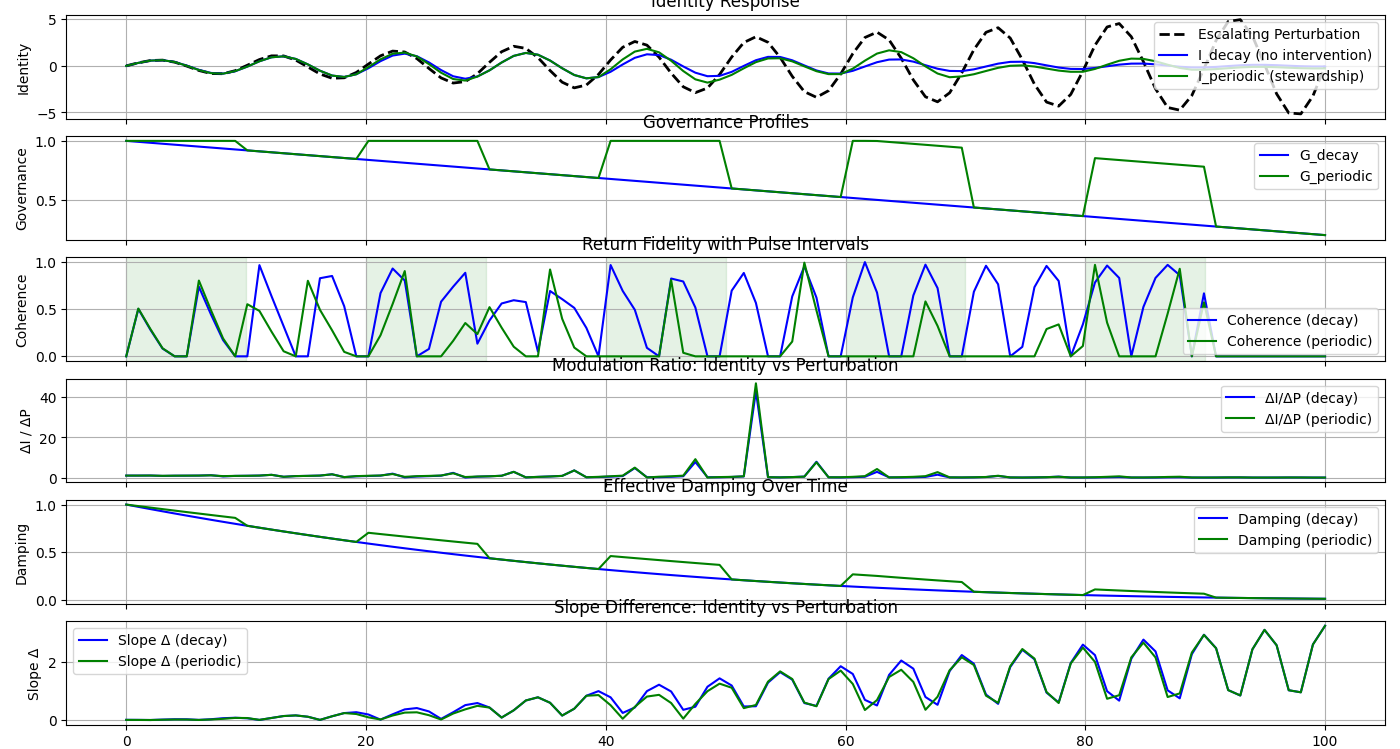
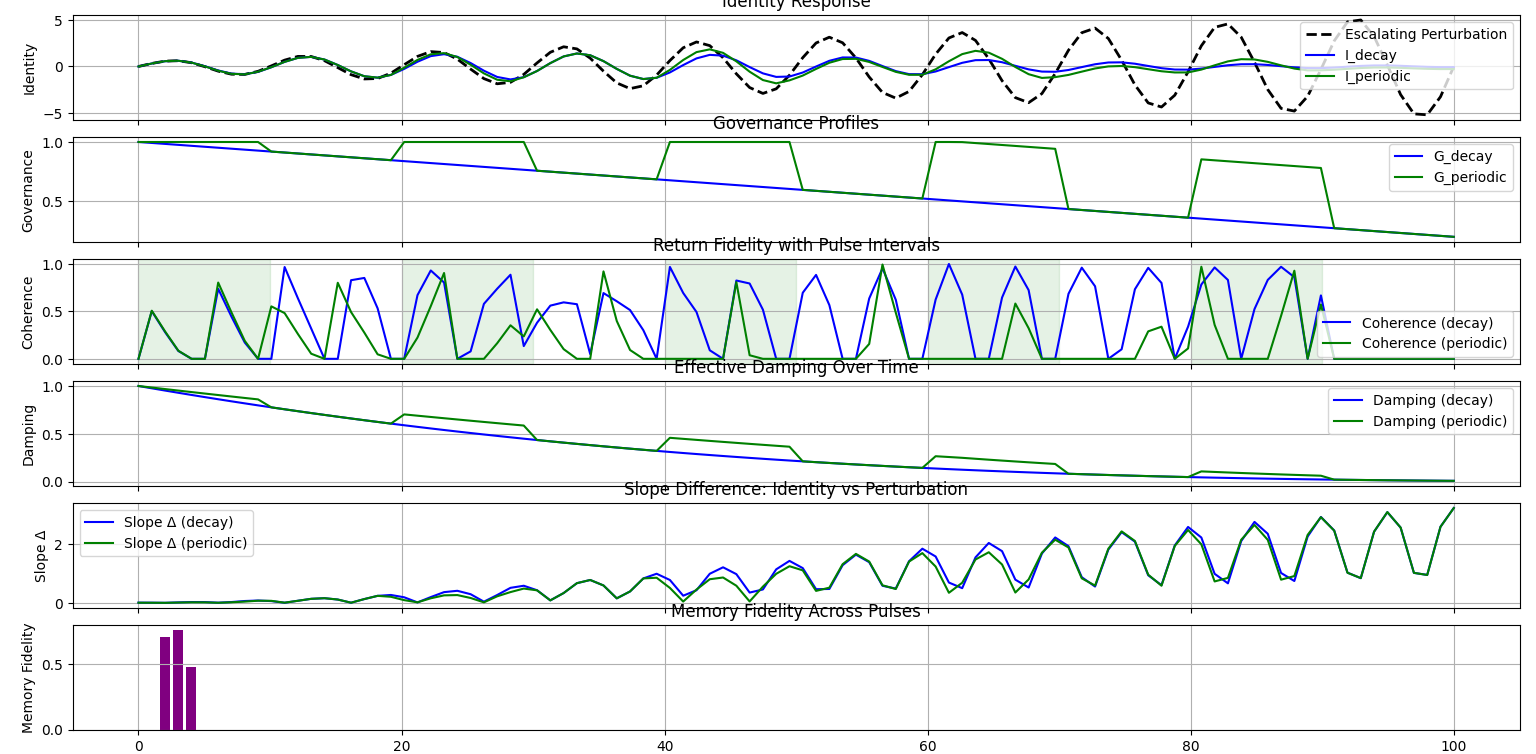
Add files via upload

diff --git a/principles/07_stewardship/Periodic_Stewardship_Debug.py b/principles/07_stewardship/Periodic_Stewardship_Debug.py
@@ -28,7 +28,7 @@ def identity_response(P, M, C, G):
         I[i] = I[i-1] + damping * (P[i] - I[i-1])
     return I
 
-# Return fidelity metric — coherence over time
+# Return fidelity metric
 epsilon = 1e-6
 def return_fidelity(I, P, window=10):
     coherence = np.zeros_like(I)
@@ -40,14 +40,37 @@ def return_fidelity(I, P, window=10):
 
 # Segment coherence by governance pulses
 def segment_coherence(I, P, pulse_starts, pulse_width):
-    segment_scores = []
+    scores = []
     for start in pulse_starts:
         end = min(start + pulse_width, len(I))
         delta_I = np.abs(I[end-1] - I[start])
         delta_P = np.abs(P[end-1] - P[start])
         score = 1 - delta_I / (delta_P + epsilon)
-        segment_scores.append(score)
-    return np.clip(segment_scores, 0, 1)
+        scores.append(score)
+    return np.clip(scores, 0, 1)
+
+# Slope fidelity per pulse
+def segmented_slope_fidelity(I, P, pulse_starts, pulse_width):
+    scores = []
+    for start in pulse_starts:
+        end = min(start + pulse_width, len(I))
+        dI = np.gradient(I[start:end])
+        dP = np.gradient(P[start:end])
+        fidelity = 1 - np.mean(np.abs(dI - dP)) / (np.mean(np.abs(dP)) + epsilon)
+        scores.append(fidelity)
+    return np.clip(scores, 0, 1)
+
+# Memory fidelity across pulses
+def memory_fidelity(I, pulse_starts, pulse_width):
+    scores = []
+    for i in range(1, len(pulse_starts)):
+        prev = pulse_starts[i-1]
+        curr = pulse_starts[i]
+        dI_prev = np.gradient(I[prev:prev+pulse_width])
+        dI_curr = np.gradient(I[curr:curr+pulse_width])
+        score = 1 - np.mean(np.abs(dI_curr - dI_prev)) / (np.mean(np.abs(dI_prev)) + epsilon)
+        scores.append(score)
+    return np.clip(scores, 0, 1)
 
 # Inputs
 P = escalating_sinusoid(t)
@@ -75,24 +98,21 @@ dP = np.gradient(P)
 slope_diff_decay = np.abs(dI_decay - dP)
 slope_diff_periodic = np.abs(dI_periodic - dP)
 
-# ΔI / ΔP ratio
-delta_I_decay = np.abs(np.gradient(I_decay))
-delta_I_periodic = np.abs(np.gradient(I_periodic))
-delta_P = np.abs(np.gradient(P))
-ratio_decay = delta_I_decay / (delta_P + epsilon)
-ratio_periodic = delta_I_periodic / (delta_P + epsilon)
-
-# Segment coherence
+# Pulse intervals
 pulse_starts = list(range(0, len(t), 20))
-segment_scores = segment_coherence(I_periodic, P, pulse_starts, pulse_width=10)
 
-# Plot all panels
+# Segment metrics
+segment_scores = segment_coherence(I_periodic, P, pulse_starts, pulse_width=10)
+slope_scores = segmented_slope_fidelity(I_periodic, P, pulse_starts, pulse_width=10)
+memory_scores = memory_fidelity(I_periodic, pulse_starts, pulse_width=10)
+
+# Plot panels
 fig, axs = plt.subplots(6, 1, figsize=(14, 18), sharex=True)
 
-# Identity response
+# Identity
 axs[0].plot(t, P, 'k--', linewidth=2, label='Escalating Perturbation')
-axs[0].plot(t, I_decay, 'b', label='I_decay (no intervention)')
-axs[0].plot(t, I_periodic, 'g', label='I_periodic (stewardship)')
+axs[0].plot(t, I_decay, 'b', label='I_decay')
+axs[0].plot(t, I_periodic, 'g', label='I_periodic')
 axs[0].set_ylabel("Identity")
 axs[0].set_title("Identity Response")
 axs[0].legend()
@@ -106,7 +126,7 @@ axs[1].set_title("Governance Profiles")
 axs[1].legend()
 axs[1].grid(True)
 
-# Coherence with pulse annotations
+# Coherence
 axs[2].plot(t, coherence_decay, 'b', label='Coherence (decay)')
 axs[2].plot(t, coherence_periodic, 'g', label='Coherence (periodic)')
 for start in pulse_starts:
@@ -116,35 +136,41 @@ axs[2].set_title("Return Fidelity with Pulse Intervals")
 axs[2].legend()
 axs[2].grid(True)
 
-# ΔI / ΔP ratio
-axs[3].plot(t, ratio_decay, 'b', label='ΔI/ΔP (decay)')
-axs[3].plot(t, ratio_periodic, 'g', label='ΔI/ΔP (periodic)')
-axs[3].set_ylabel("ΔI / ΔP")
-axs[3].set_title("Modulation Ratio: Identity vs Perturbation")
+# Damping
+axs[3].plot(t, D_decay, 'b', label='Damping (decay)')
+axs[3].plot(t, D_periodic, 'g', label='Damping (periodic)')
+axs[3].set_ylabel("Damping")
+axs[3].set_title("Effective Damping Over Time")
 axs[3].legend()
 axs[3].grid(True)
 
-# Damping
-axs[4].plot(t, D_decay, 'b', label='Damping (decay)')
-axs[4].plot(t, D_periodic, 'g', label='Damping (periodic)')
-axs[4].set_ylabel("Damping")
-axs[4].set_title("Effective Damping Over Time")
+# Slope Δ
+axs[4].plot(t, slope_diff_decay, 'b', label='Slope Δ (decay)')
+axs[4].plot(t, slope_diff_periodic, 'g', label='Slope Δ (periodic)')
+axs[4].set_ylabel("Slope Δ")
+axs[4].set_title("Slope Difference: Identity vs Perturbation")
 axs[4].legend()
 axs[4].grid(True)
 
-# Slope difference
-axs[5].plot(t, slope_diff_decay, 'b', label='Slope Δ (decay)')
-axs[5].plot(t, slope_diff_periodic, 'g', label='Slope Δ (periodic)')
-axs[5].set_ylabel("Slope Δ")
-axs[5].set_xlabel("Time")
-axs[5].set_title("Slope Difference: Identity vs Perturbation")
-axs[5].legend()
+# Memory Fidelity (bar plot)
+axs[5].bar(range(1, len(memory_scores)+1), memory_scores, color='purple')
+axs[5].set_ylabel("Memory Fidelity")
+axs[5].set_xlabel("Pulse Index")
+axs[5].set_title("Memory Fidelity Across Pulses")
 axs[5].grid(True)
 
 plt.tight_layout()
 plt.show()
 
-# Print segmented coherence scores
-print("Segmented Coherence Scores (Periodic):")
+# Print segmented metrics
+print("Segmented Coherence Scores:")
 for i, score in enumerate(segment_scores):
     print(f"Pulse {i+1}: {score:.3f}")
+
+print("\nSegmented Slope Fidelity Scores:")
+for i, score in enumerate(slope_scores):
+    print(f"Pulse {i+1}: {score:.3f}")
+
+print("\nMemory Fidelity Scores:")
+for i, score in enumerate(memory_scores):
+    print(f"Between Pulse {i} and {i+1}: {score:.3f}")
